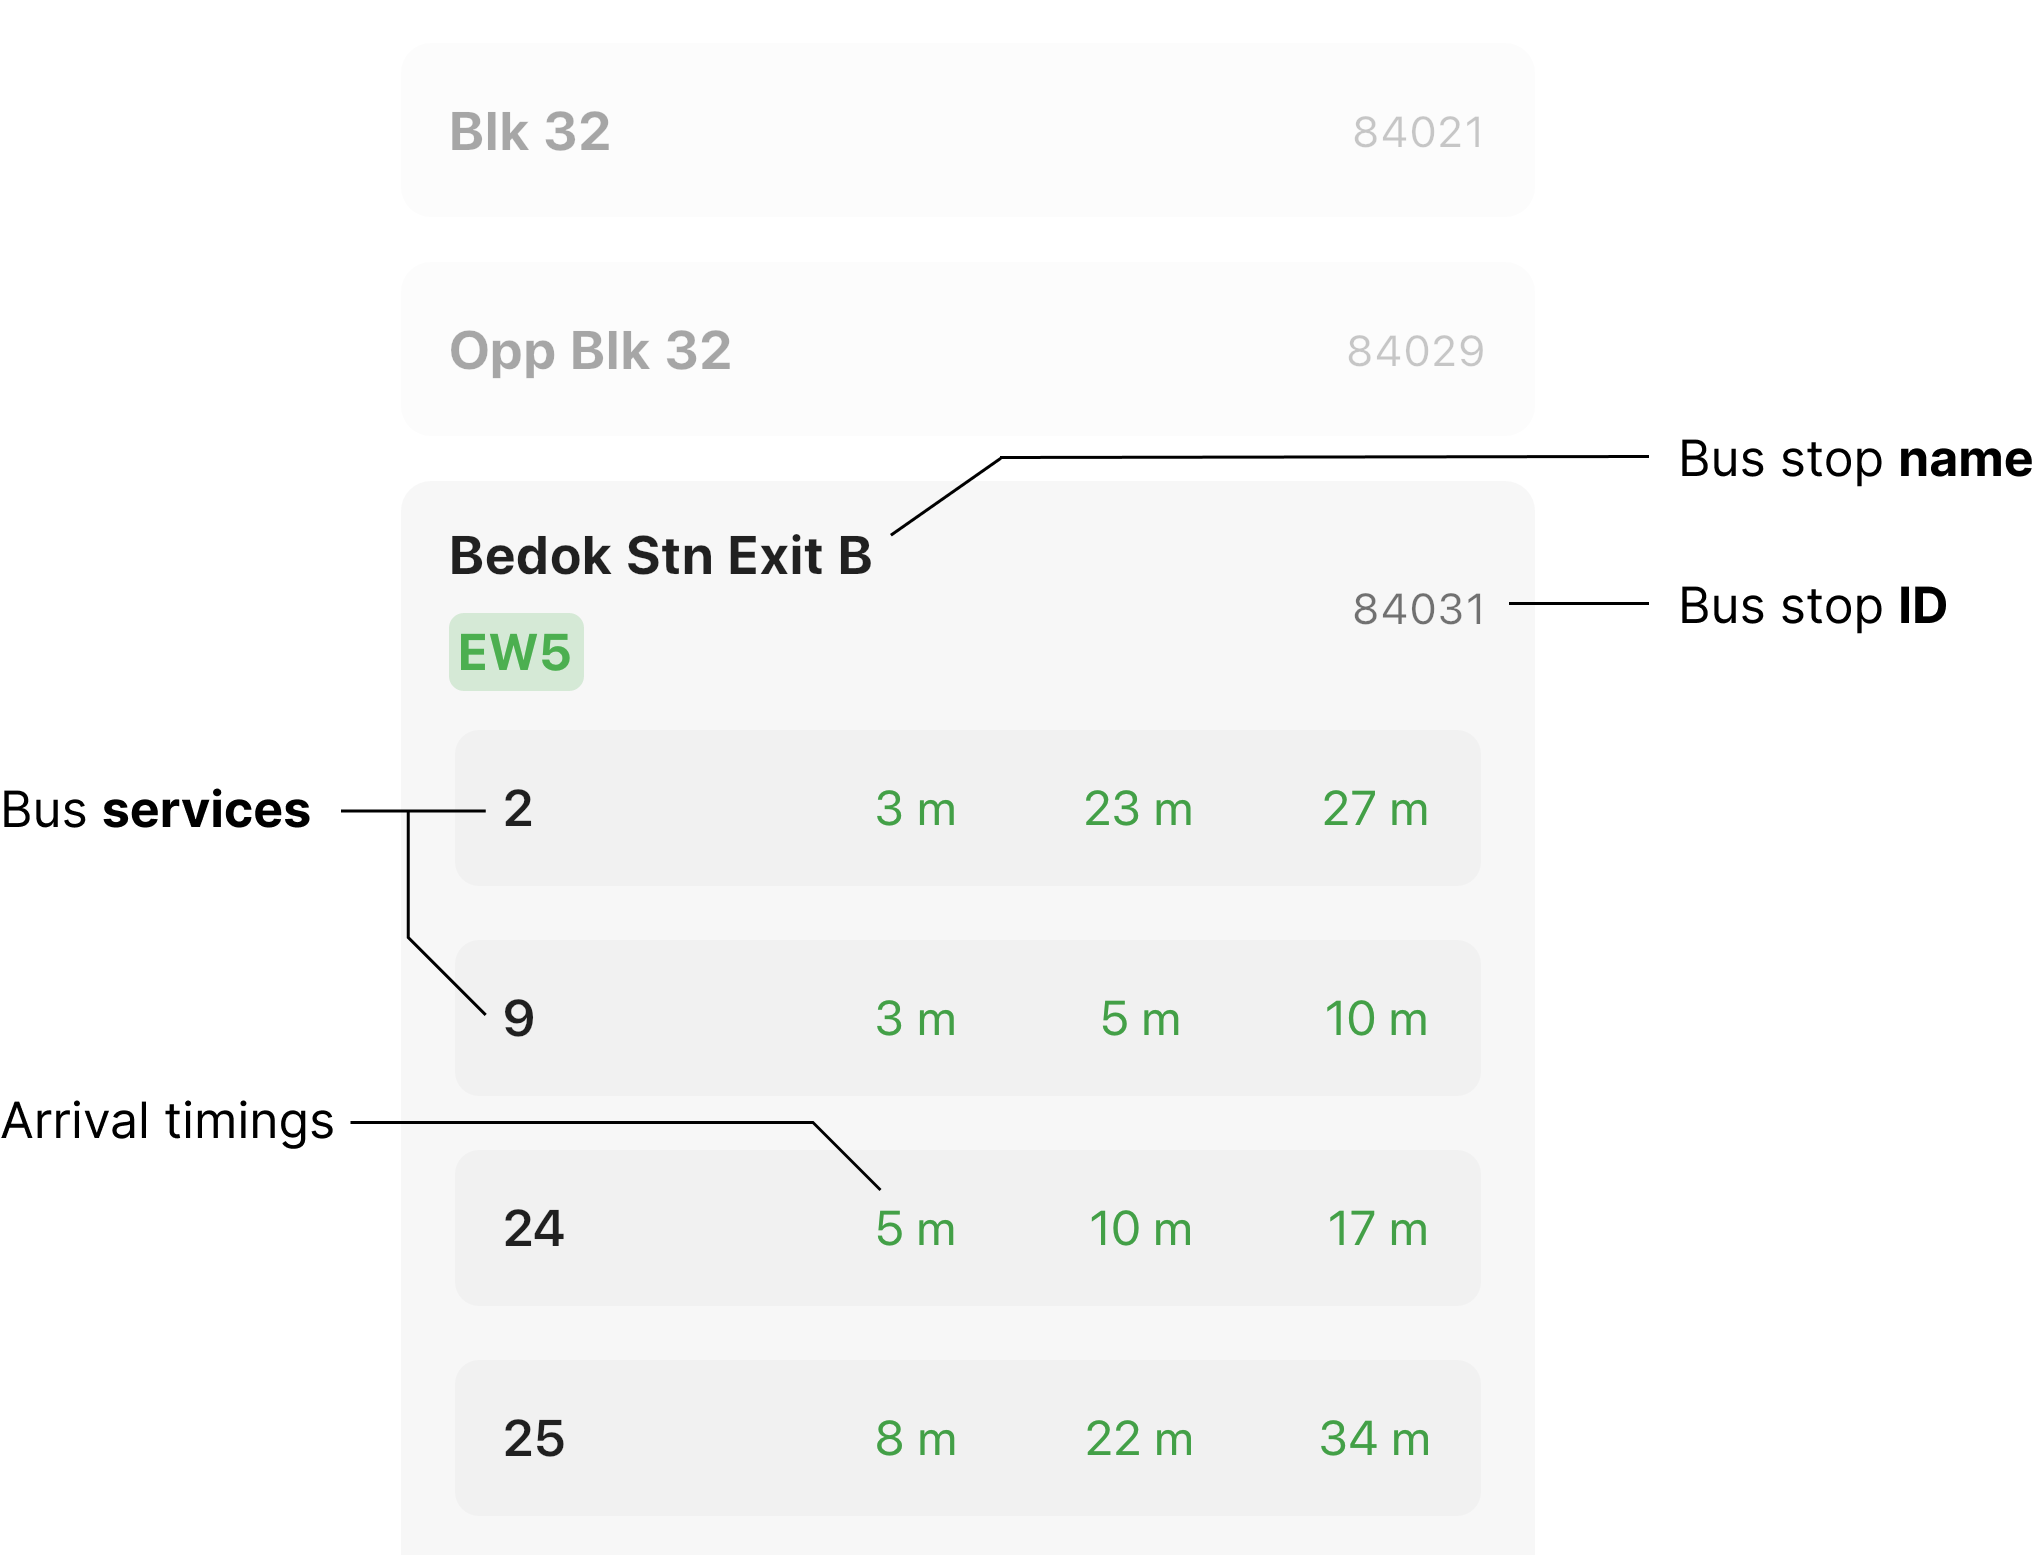
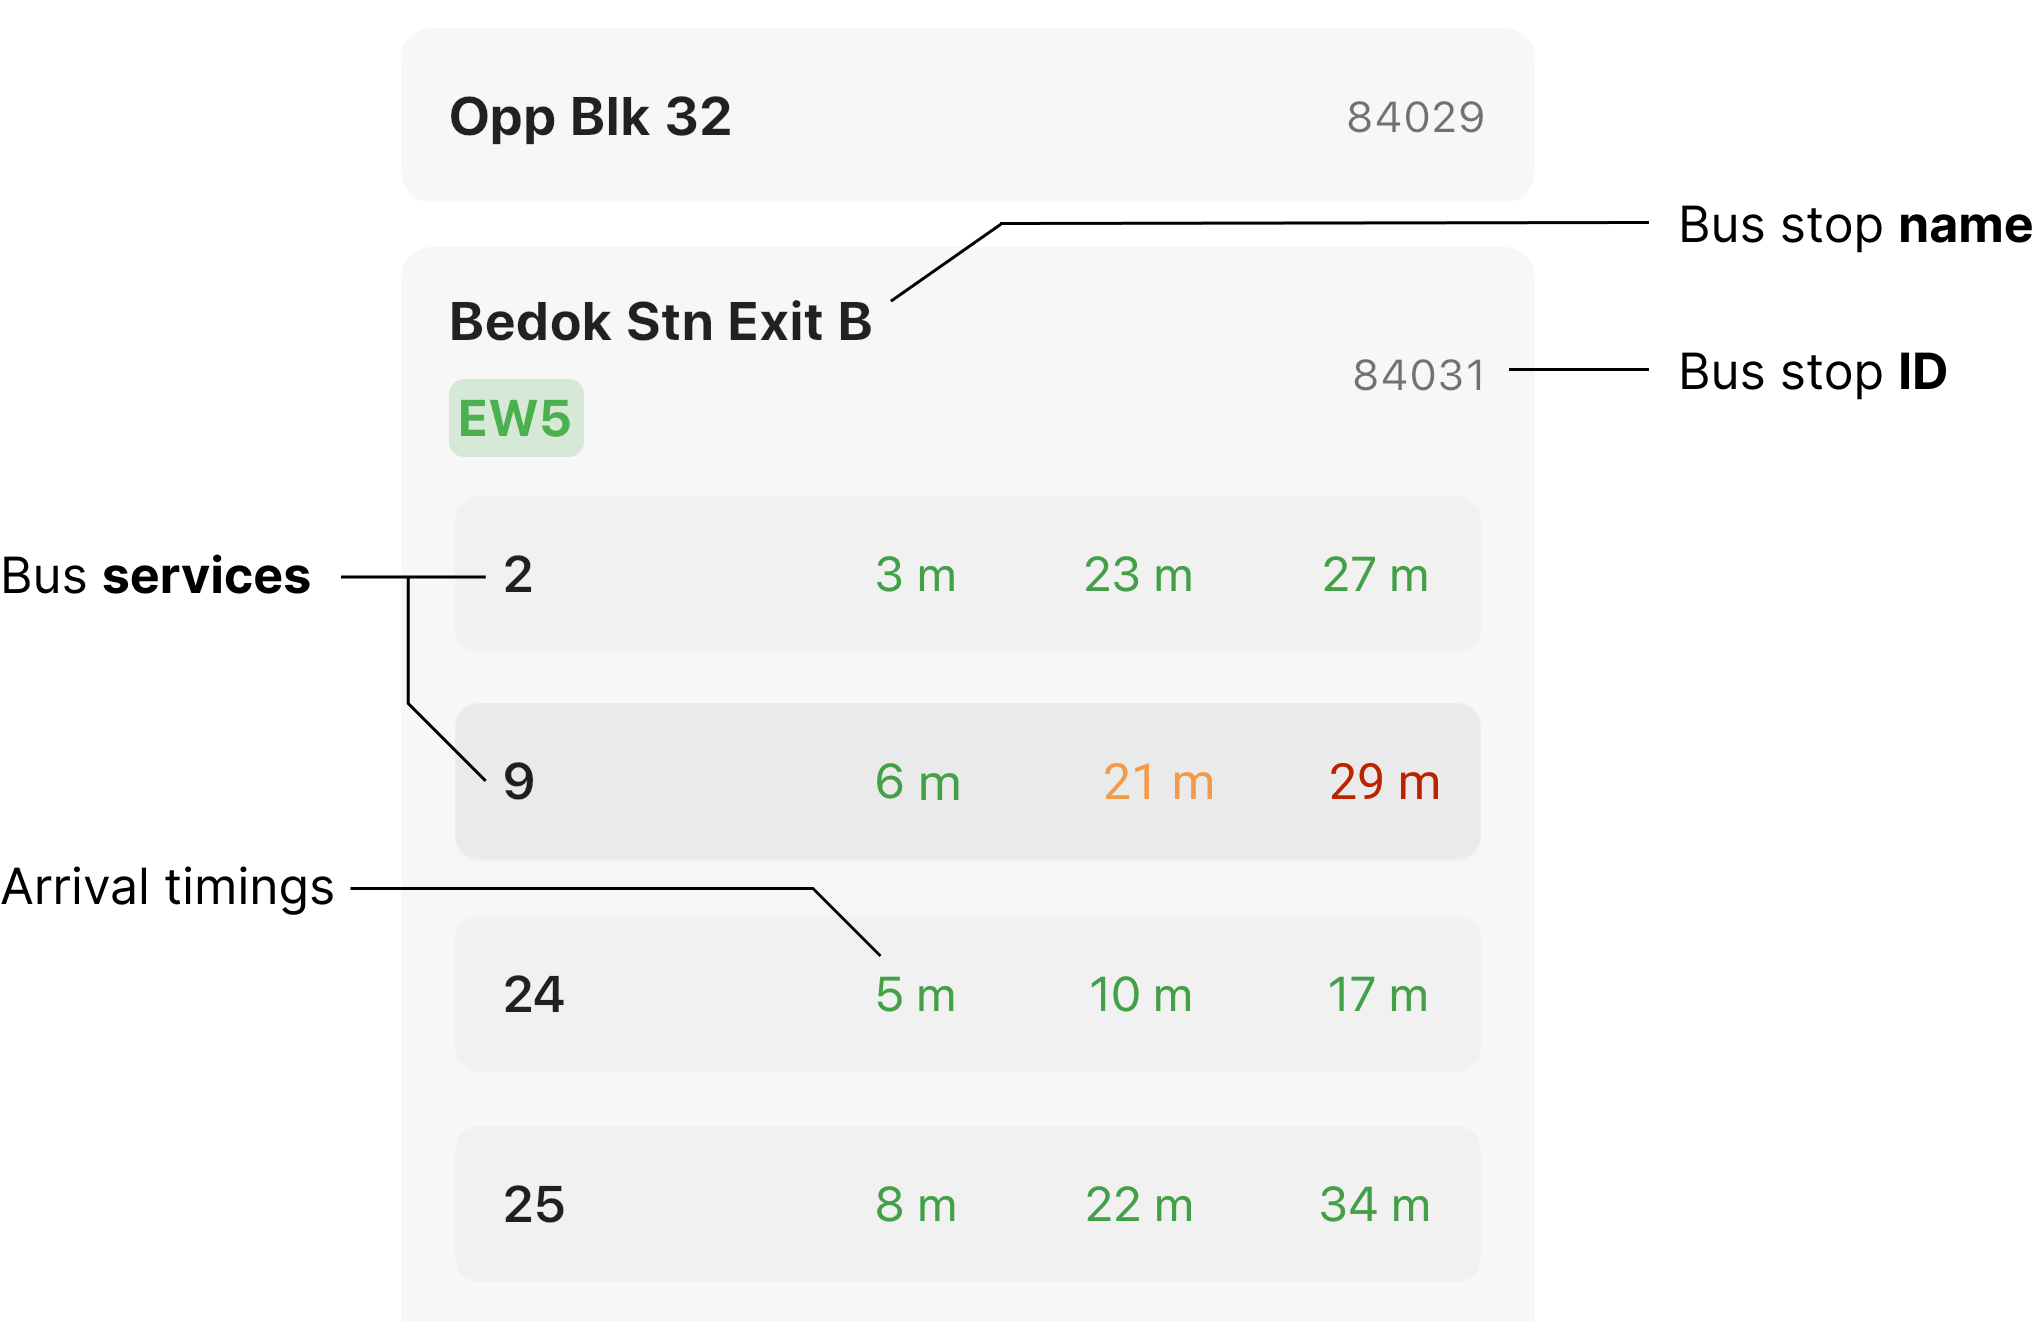
changed backgroun dcolor, updated article

diff --git a/assets/styles/main.scss b/assets/styles/main.scss
@@ -7,8 +7,7 @@ html, body {
 }
 * { box-sizing: border-box; }
 body { 
-  background-color: #fffffeec;
-  background-color: rgba(0, 0, 0, 0.03);
+  background-color: rgba(0, 0, 0, 0.01);
   color: var(--font-color);
   overflow-x: hidden;
 }

diff --git a/content/guides/basic.md b/content/guides/basic.md
@@ -12,15 +12,15 @@ When you open the app, you will see a list of bus stops nearby, based on your cu
 
 <ImgComp src="basic/bus-timings-demo.png" :fullwidth="true" />
 
-In the above screen, the bus stop **Bedok Stn Exit A** has the bus servies **2**, **9**, **24**, **25**, etc. operating. If, for example, you want to see when **bus 24** is arriving, look for **24** in the list of bus services:
+In the above screen, the bus stop **Bedok Stn Exit A** has the bus servies **2**, **9**, **24**, **25**, etc. operating. If, for example, you want to see when **bus 9** is arriving, look for **9** in the list of bus services:
 
 <ImgComp src="basic/service-tile.png" />
 
 The number in black is the bus number (24), and the other three numbers are the bus arrival times. From the image we see the following bus arrival times:
 
-- Arr (the bus has arrived)
-- 12 minutes
-- 22 minutes
+- <Clr color="green">Arr</Clr> (the bus has arrived)
+- <Clr color="orange">21 m</Clr>inutes
+- <Clr color="red">29 m</Clr>inutes
 
 That's all you need! You may also see the level of crowded of the bus depending on the color of the timings:
 
